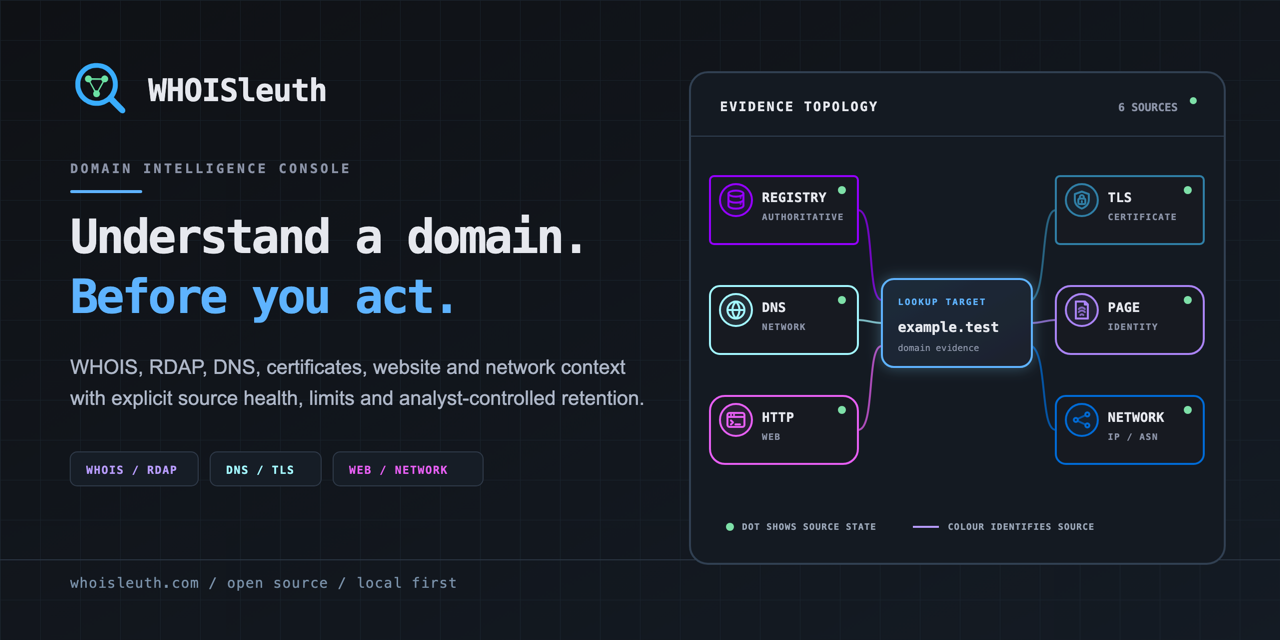
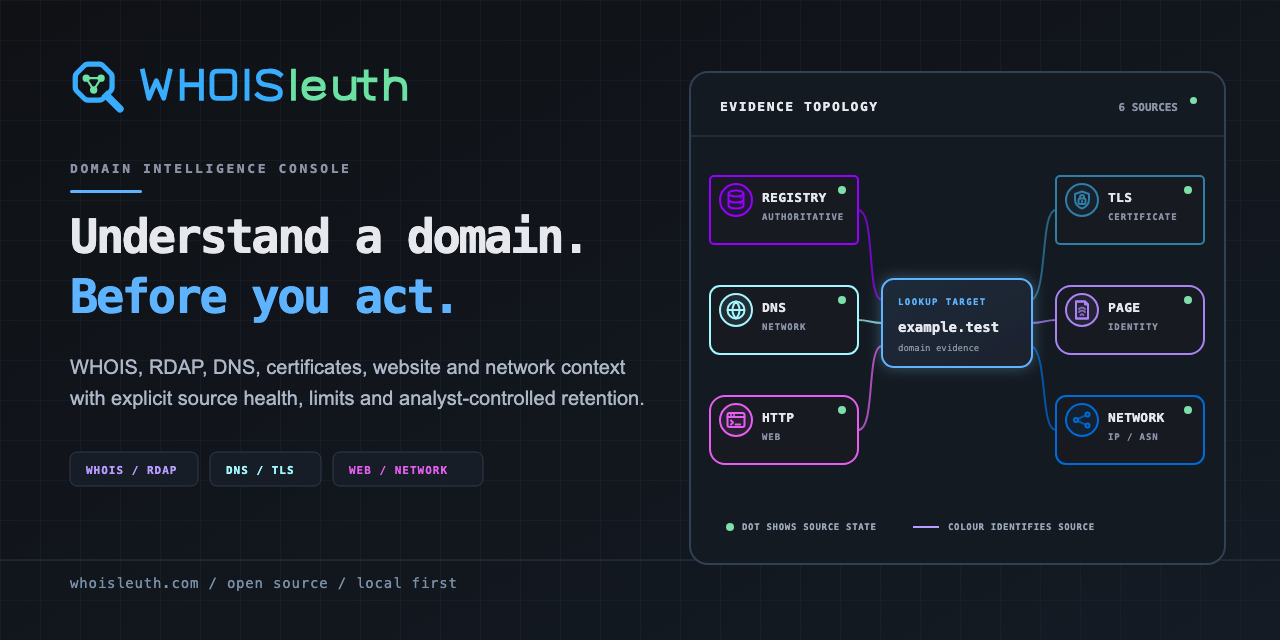
Unify vector identity across interface and shared assets
Define the symbol and outlined wordmark in one lightweight vector owner and derive the interface, light and dark logos, favicon sizes and social-preview assets from it. Keep the favicon and full identity on the same geometry without introducing a font or production dependency.

Preserve existing navigation labels, accessible names and theme effects while replacing duplicated identity markup. Retain a small asset generator and structural checks so future identity changes do not require separately redrawing each representation.

Verification: 14 focused identity and domain-feed tests passed with no failures, cancellations or skips. Both identity components compiled without warnings. Inspected the rendered mark at 16, 24, 32, 48 and 64 pixels in both themes and the social preview at its native size. Staged secret and whitespace checks passed; integrated page verification remains part of the batch boundary.

diff --git a/frontend/src/lib/components/BrandMark.svelte b/frontend/src/lib/components/BrandMark.svelte
@@ -1,35 +1,16 @@
-<svg
-  class="brand-mark"
-  viewBox="34 38 448 448"
-  aria-hidden="true"
-  focusable="false"
-  xmlns="http://www.w3.org/2000/svg"
->
-  <g>
-    <path
-      data-brand-tone="primary"
-      class="primary"
-      fill-rule="evenodd"
-      d="m228.75 74.15c5.64-.08 14.64.33 20 .92 5.36.58 14.02 1.98 19.25 3.11 5.23 1.12 13.32 3.4 18 5.05 4.68 1.65 12.55 5.02 17.5 7.49 4.95 2.47 12.82 7.03 17.5 10.12 5.25 3.47 13.48 10.6 21.53 18.64 8.94 8.94 15.09 16.15 19.65 23.02 3.64 5.5 8.4 13.6 10.58 18 2.18 4.4 5.35 11.82 7.05 16.5 1.69 4.68 3.96 12.1 5.04 16.5 1.09 4.4 2.55 11.37 3.26 15.5.73 4.3 1.27 15.39 1.26 26-.02 13.36-.5 20.86-1.73 27-.94 4.68-2.39 11.2-3.23 14.5-.84 3.3-2.92 9.82-4.61 14.5-1.69 4.68-5.1 12.55-7.58 17.5-2.47 4.95-6.22 11.7-8.33 15-2.11 3.3-3.84 6.45-3.85 7 0 .55 18.18 19.23 40.41 41.5 32.17 32.25 40.88 41.52 42.7 45.5 1.63 3.58 2.28 6.85 2.28 11.5 0 4.76-.6 7.64-2.22 10.75-1.26 2.42-4.01 5.43-6.39 7-3.27 2.15-5.63 2.82-10.75 3.08-5.7.29-7.36-.07-12.57-2.7-5.01-2.53-12.67-9.71-46.5-43.6-22.27-22.31-40.73-40.57-41-40.58-.27 0-3.87 2.22-8 4.95-4.12 2.72-12 7.18-17.5 9.92-5.5 2.73-13.37 6.18-17.5 7.66-4.12 1.49-12.23 3.82-18 5.19-8.22 1.95-14.29 2.61-28 3.05-11.17.36-20.58.13-26-.63-4.68-.65-12.78-2.26-18-3.59-5.22-1.32-12.65-3.59-16.5-5.03-3.85-1.45-11.05-4.67-16-7.17-4.95-2.5-12.37-6.8-16.5-9.57-4.12-2.76-10.65-7.62-14.5-10.79-3.85-3.17-9.73-8.61-13.07-12.1-3.35-3.49-7.9-8.59-10.12-11.34-2.23-2.75-6.4-8.6-9.27-13-2.87-4.4-7.17-12.05-9.56-17-2.38-4.95-5.67-12.82-7.3-17.5-1.63-4.68-4.02-13.45-5.32-19.5-2.08-9.67-2.36-13.66-2.36-33 0-19.35.28-23.32 2.36-33 1.3-6.05 3.94-15.5 5.86-21 1.92-5.5 5.42-13.82 7.77-18.5 2.35-4.68 7-12.55 10.34-17.5 3.34-4.95 8.9-12.25 12.37-16.23 3.46-3.98 9.68-10.2 13.8-13.84 4.13-3.63 10.2-8.52 13.5-10.86 3.3-2.34 9.15-6.08 13-8.33 3.85-2.24 11.95-6.08 18-8.52 6.05-2.45 14.82-5.37 19.5-6.5 4.68-1.14 11.88-2.55 16-3.14 4.13-.6 8.85-1.24 10.5-1.43 1.65-.19 7.61-.42 13.25-.5zm-37.75 41.82c-3.57 1.2-9.65 3.69-13.5 5.55-3.85 1.85-10.56 5.76-14.92 8.67-4.35 2.92-11.38 8.68-15.61 12.81-4.23 4.12-10.35 11.1-13.59 15.5-3.24 4.4-7.76 11.6-10.04 16-2.28 4.4-5.48 11.82-7.12 16.5-1.64 4.68-3.81 12.32-4.82 17-1.4 6.52-1.81 12.58-1.76 26 .07 16.37.28 18.28 3.26 29.5 1.76 6.6 5.33 16.5 7.96 22 2.62 5.5 7.04 13.37 9.82 17.5 2.78 4.12 8.16 10.82 11.94 14.89 3.78 4.06 9.58 9.51 12.88 12.1 3.3 2.6 9.15 6.69 13 9.1 3.85 2.41 11.05 6.11 16 8.23 4.95 2.12 13.72 5.04 19.5 6.48 9.16 2.28 12.61 2.62 27 2.65 10.34.01 18.74-.48 22.5-1.32 3.3-.75 10.05-2.71 15-4.36 4.95-1.65 11.7-4.35 15-6.01 3.3-1.65 9.71-5.42 14.25-8.38 4.54-2.96 11.92-8.87 16.41-13.13 4.49-4.26 10.68-11.13 13.76-15.25 3.08-4.13 7.71-11.55 10.28-16.5 2.57-4.95 5.42-11.02 6.33-13.5.91-2.48 2.53-7.43 3.6-11 1.06-3.57 2.59-11 3.38-16.5.8-5.5 1.46-13.38 1.47-17.5 0-4.13-.67-12-1.5-17.5-.83-5.5-2.46-13.38-3.62-17.5-1.16-4.13-3.77-11.32-5.79-16-2.02-4.68-5.85-11.88-8.51-16-2.66-4.13-7.44-10.65-10.63-14.5-3.18-3.85-8.4-9.25-11.59-12-3.19-2.75-8.73-6.96-12.32-9.36-3.59-2.41-9.89-6.06-14.02-8.14-4.12-2.07-11.1-4.9-15.5-6.29-4.4-1.39-11.82-3.25-16.5-4.13-5.57-1.05-13.51-1.57-23-1.51q-14.5.1-23.5 1.91c-4.95 1-11.93 2.79-15.5 3.99z"
-    />
-    <path class="primary soft-81" d="m71.36 233c0 5.22.17 7.25.38 4.5.2-2.75.2-7.03 0-9.5-.21-2.47-.38-.22-.38 5z" />
-    <path class="primary soft-32" d="m226.5 73.72c1.65.22 4.8.22 7 .01 2.2-.22.85-.4-3-.4-3.85-.01-5.65.17-4 .39zm178 302.28c7.15 7.16 13.23 13.01 13.5 13.01.27 0-5.22-5.85-12.22-13.01-7-7.15-13.07-13-13.5-13-.43-.01 5.07 5.84 12.22 13z" />
-    <path class="primary soft-22" d="m342 379.5c8.52 8.53 15.73 15.51 16 15.51.27 0-6.35-6.98-14.73-15.51-8.37-8.52-15.57-15.5-16-15.5-.42-.01 6.21 6.97 14.73 15.5z" />
-    <path class="primary soft-23" d="m384.5 422c12.1 12.1 22.23 22.01 22.5 22.01.27 0-9.28-9.91-21.23-22.01-11.96-12.1-22.08-22-22.5-22-.42 0 9.13 9.9 21.23 22z" />
-    <path
-      data-brand-tone="secondary"
-      class="secondary"
-      fill-rule="evenodd"
-      d="m169.5 166.97c4.58 0 7.29 0.65 11.45 2.76 3 1.53 6.71 4.34 8.26 6.27 1.54 1.93 3.44 5.3 5.6 11.5l70.69 0.6 3.21-6.3c1.85-3.64 4.81-7.56 7-9.27 2.08-1.63 5.36-3.53 7.29-4.21 1.93-0.68 5.75-1.24 8.5-1.26 2.75-0.01 6.8 0.52 9 1.19 2.36 0.71 6.11 3.26 9.16 6.23 4.15 4.03 5.5 6.2 6.86 11.02 1.17 4.14 1.48 7.4 0.99 10.5-0.39 2.47-1.51 6.07-2.48 8-0.97 1.93-3.29 5.02-5.15 6.88-1.86 1.86-4.73 4.08-6.38 4.93-1.66 0.85-6.56 1.73-19 2.38l-17 30.52c-9.35 16.79-17.63 31.71-18.39 33.16-1.27 2.41-1.17 2.93 1.19 6.13 1.43 1.93 3.3 5.52 4.17 8 0.86 2.48 1.57 6.07 1.56 8 0 1.93-0.68 5.52-1.5 8-0.82 2.48-2.99 6.3-4.83 8.5-1.83 2.2-5.33 5.01-7.77 6.24-3.16 1.59-6.22 2.24-10.68 2.25-3.44 0-7.94-0.69-10-1.55-2.06-0.86-5.3-2.77-7.2-4.25-1.92-1.5-4.56-5.12-5.97-8.19-1.84-4-2.52-7.14-2.49-11.5 0.03-4.71 0.66-7.15 2.97-11.36 1.62-2.94 3.5-5.76 4.19-6.25 0.93-0.66-3.49-9.48-35.75-67.89l-6.75 0.01c-5.41 0.01-7.83-0.54-12.18-2.75-2.99-1.52-6.7-4.33-8.25-6.26-1.55-1.93-3.5-5.53-4.33-8-0.83-2.47-1.52-6.3-1.52-8.5-0.01-2.2 0.71-6.03 1.58-8.5 0.88-2.47 2.84-6.07 4.36-8 1.52-1.93 5.2-4.74 8.18-6.26 4.12-2.11 6.84-2.76 11.41-2.77zm24.7 35.28c-0.62 1.79-2.71 5.16-4.66 7.5l-3.54 4.25 35.5 64.2 18.11 0.3c23.16-41.77 31.13-56.28 32.64-59.2l2.75-5.3c-4.58-5.81-6.61-9.19-7.45-11.25l-1.55-3.75h-70.68z"
-    />
-    <path class="secondary soft-54" d="m222 187.75c8.53.17 22.03.17 30 0 7.98-.17 1-.31-15.5-.31-16.5 0-23.03.14-14.5.31z" />
-    <path class="secondary soft-24" d="m207 198.71c6.88.16 23.15.4 36.16.54 13.01.14 23.47-.09 23.25-.5-.23-.41-16.5-.65-36.16-.53-19.66.12-30.13.34-23.25.49z" />
-  </g>
+<script lang="ts">
+  import { BRAND_MARK_VIEWBOX, BRAND_MARK_LENS, BRAND_MARK_LINKS, BRAND_MARK_NODES } from '$lib/brand-identity';
+</script>
+
+<svg class="brand-mark" viewBox={BRAND_MARK_VIEWBOX} aria-hidden="true" focusable="false" xmlns="http://www.w3.org/2000/svg">
+  <path data-brand-tone="primary" class="primary" d={BRAND_MARK_LENS} />
+  <path class="links" fill="none" stroke-width="2.4" stroke-linejoin="round" d={BRAND_MARK_LINKS} />
+  <path data-brand-tone="secondary" class="secondary" d={BRAND_MARK_NODES} />
 </svg>
 
 <style>
   .brand-mark{display:block;width:100%;height:100%;overflow:visible}
   .primary{fill:var(--brand-mark-primary)}
   .secondary{fill:var(--brand-mark-secondary)}
-  .soft-81{opacity:.81}.soft-54{opacity:.54}.soft-32{opacity:.32}.soft-24{opacity:.24}.soft-23{opacity:.23}.soft-22{opacity:.22}
+  .links{stroke:var(--brand-mark-secondary)}
 </style>

diff --git a/frontend/src/routes/(console)/+layout.svelte b/frontend/src/routes/(console)/+layout.svelte
@@ -12,6 +12,7 @@
   import { CAPABILITY_CONTEXT, fetchCapabilities, type CapabilityReport } from '$lib/capabilities';
   import { requestJsonCapped, SMALL_JSON_RESPONSE_BYTES } from '$lib/bounded-json-response';
   import BrandMark from '$lib/components/BrandMark.svelte';
+  import BrandWordmark from '$lib/components/BrandWordmark.svelte';
   import CommandPalette from '$lib/components/CommandPalette.svelte';
   import ConsoleLoading from '$lib/components/ConsoleLoading.svelte';
   import BrowserWorkspaceIndicator from '$lib/components/BrowserWorkspaceIndicator.svelte';
@@ -293,7 +294,7 @@
   <div class="shell" class:open={navOpen}>
     <a class="skip-link" href="#main-content">Skip to main content</a>
     <header bind:this={consoleHeader} inert={commandOpen} aria-hidden={commandOpen?'true':undefined}>
-      <a href="/dashboard" aria-label="WHOISleuth Dashboard"><span class="mark small"><BrandMark /></span><strong>WHOISleuth</strong></a>
+      <a href="/dashboard" aria-label="WHOISleuth Dashboard"><span class="mark small"><BrandMark /></span><strong><BrandWordmark /></strong></a>
       <div class="console-header-actions">
         <button class="command-trigger" type="button" aria-label="Search console navigation" bind:this={commandTrigger} onpointerenter={() => preloadBestEffort(() => import('$lib/console-command-navigation'))} onfocus={() => preloadBestEffort(() => import('$lib/console-command-navigation'))} onclick={()=>void openCommandPalette()}><span class="shortcut-wide" aria-hidden="true">Ctrl/⌘ K</span><span class="command-icon" aria-hidden="true"><IntelligenceIcon name="command" size={18} /></span><strong>Search</strong></button>
         <span class="sign-out-control">
@@ -306,7 +307,7 @@
     <aside id="console-navigation" bind:this={navigationPanel} inert={commandOpen} aria-hidden={commandOpen?'true':undefined}>
       <div class="terminal-strip" aria-hidden="true"><span class="prompt-sigil">❯</span><span>guest@whoisleuth / console</span></div>
       <button class="navigation-drawer-close" type="button" aria-label="Close navigation" onclick={()=>void closeNavigation()}>×</button>
-      <a class="brand" href="/dashboard"><span class="mark"><BrandMark /></span><span><strong>WHOISleuth</strong><small>Domain intelligence console</small></span></a>
+      <a class="brand" href="/dashboard"><span class="mark"><BrandMark /></span><span><strong><BrandWordmark /></strong><small>Domain intelligence console</small></span></a>
       <nav aria-label="Console">
         {#each consoleNavigationGroups as navigationGroup}
           <div class="console-nav-group" role="group" aria-labelledby={`console-group-${navigationGroup.label.toLowerCase().replaceAll(' ', '-').replace('&', 'and')}`}>

diff --git a/frontend/src/lib/brand-identity.ts b/frontend/src/lib/brand-identity.ts
@@ -1,0 +1,22 @@
+/** Shared vector geometry for the interface and downloadable identity assets. */
+export const BRAND_MARK_VIEWBOX = '0 0 64 64';
+export const BRAND_MARK_LENS = 'M42 37L60 55Q63 58 60 61Q57 64 54 61L36 43ZM20 4H34Q37 4 39 6L49 16Q51 18 51 21V34Q51 37 49 39L39 49Q37 51 34 51H20Q17 51 15 49L5 39Q3 37 3 34V21Q3 18 5 16L15 6Q17 4 20 4ZM21 10Q19 10 18 11L10 19Q9 20 9 22V33Q9 35 10 36L18 44Q19 45 21 45H33Q35 45 36 44L44 36Q45 35 45 33V22Q45 20 44 19L36 11Q35 10 33 10Z';
+export const BRAND_MARK_LINKS = 'M18.5 23H35.5L27 36.5Z';
+export const BRAND_MARK_NODES = 'M22.7 23a4.2 4.2 0 1 1-8.4 0 4.2 4.2 0 1 1 8.4 0ZM39.7 23a4.2 4.2 0 1 1-8.4 0 4.2 4.2 0 1 1 8.4 0ZM31.2 36.5a4.2 4.2 0 1 1-8.4 0 4.2 4.2 0 1 1 8.4 0Z';
+
+// Drawn letterforms keep the wordmark independent of installed fonts.
+export const BRAND_WORDMARK_VIEWBOX = '-3 0 308 42';
+export const BRAND_WORDMARK_PRIMARY = 'M1 5L8 36L16.5 16L25 36L32 5M46 5V36M46 20.5H68M68 5V36M86 5H100Q106 5 106 11V30Q106 36 100 36H86Q80 36 80 30V11Q80 5 86 5ZM120 5V36M158 9Q152 4 144 5Q133 5 133 13Q133 20 144 21L149 22Q159 24 158 30Q158 37 146 37Q137 37 132 32';
+export const BRAND_WORDMARK_SECONDARY = 'M173 5V36M185 25H207V23Q207 14 196 14Q185 14 185 25Q185 36 196 36Q203 36 207 32M221 14V27Q221 36 231 36Q242 36 242 26M242 14V36M256 6V29Q256 36 264 36M248 15H266M279 5V36M279 24Q279 14 289 14Q300 14 300 24V36';
+
+export const BRAND_PALETTE = Object.freeze({ primary: '#39adfd', secondary: '#6be1a3', lightPrimary: '#005b91', lightSecondary: '#006b49' });
+
+export function brandMarkSvg(): string {
+  return `<svg xmlns="http://www.w3.org/2000/svg" viewBox="${BRAND_MARK_VIEWBOX}"><title>WHOISleuth</title><path fill="${BRAND_PALETTE.primary}" d="${BRAND_MARK_LENS}"/><path fill="none" stroke="${BRAND_PALETTE.secondary}" stroke-width="2.4" stroke-linejoin="round" d="${BRAND_MARK_LINKS}"/><path fill="${BRAND_PALETTE.secondary}" d="${BRAND_MARK_NODES}"/></svg>\n`;
+}
+
+export function brandLogoSvg(light = false): string {
+  const primary = light ? BRAND_PALETTE.lightPrimary : BRAND_PALETTE.primary;
+  const secondary = light ? BRAND_PALETTE.lightSecondary : BRAND_PALETTE.secondary;
+  return `<svg xmlns="http://www.w3.org/2000/svg" viewBox="0 0 388 64"><title>WHOISleuth</title><path fill="${primary}" d="${BRAND_MARK_LENS}"/><path fill="none" stroke="${secondary}" stroke-width="2.4" stroke-linejoin="round" d="${BRAND_MARK_LINKS}"/><path fill="${secondary}" d="${BRAND_MARK_NODES}"/><g transform="translate(82 10)" fill="none" stroke-width="5.5" stroke-linecap="square" stroke-linejoin="round"><path stroke="${primary}" d="${BRAND_WORDMARK_PRIMARY}"/><path stroke="${secondary}" d="${BRAND_WORDMARK_SECONDARY}"/></g></svg>\n`;
+}

diff --git a/frontend/src/routes/(public)/+layout.svelte b/frontend/src/routes/(public)/+layout.svelte
@@ -3,6 +3,7 @@
   import { page } from '$app/state';
   import { onMount, setContext } from 'svelte';
   import BrandMark from '$lib/components/BrandMark.svelte';
+  import BrandWordmark from '$lib/components/BrandWordmark.svelte';
   import SiteFooter from '$lib/components/SiteFooter.svelte';
   import ThemeSelector from '$lib/components/ThemeSelector.svelte';
   import {
@@ -82,7 +83,7 @@
 <div class="public-shell" class:documentation-shell={referenceSectionActive}>
   <a class="skip-link" href="#main-content">Skip to main content</a>
   <header class="public-header">
-    <a class="public-brand" href="/" aria-label="WHOISleuth overview"><span class="mark"><BrandMark /></span><span class="brand-copy"><strong>WHOISleuth</strong><small>Domain intelligence</small></span></a>
+    <a class="public-brand" href="/" aria-label="WHOISleuth overview"><span class="mark"><BrandMark /></span><span class="brand-copy"><strong><BrandWordmark /></strong><small>Domain intelligence</small></span></a>
     <nav class="public-navigation-desktop" aria-label="Public navigation">
       {#each publicHeaderNavigation as item}
         <a data-public-route={item.href} class:active={publicItemActive(item.href)} aria-current={publicItemCurrent(item.href)} href={item.href}>{item.label}</a>

diff --git a/frontend/src/app.html b/frontend/src/app.html
@@ -1,1 +1,1 @@
-<!doctype html><html lang="en"><head><meta charset="utf-8"><meta name="viewport" content="width=device-width,initial-scale=1"><meta name="theme-color" content="#0f1115">%sveltekit.head%<script src="/theme-init.js"></script><link rel="icon" href="/favicon.ico" sizes="64x64"><link rel="icon" type="image/svg+xml" href="/favicon.svg"></head><body data-sveltekit-preload-data="hover"><div style="display:contents">%sveltekit.body%</div></body></html>
+<!doctype html><html lang="en"><head><meta charset="utf-8"><meta name="viewport" content="width=device-width,initial-scale=1"><meta name="theme-color" content="#0f1115">%sveltekit.head%<script src="/theme-init.js"></script><link rel="icon" href="/favicon.ico" sizes="16x16 32x32 48x48 64x64"><link rel="icon" type="image/svg+xml" href="/favicon.svg"></head><body data-sveltekit-preload-data="hover"><div style="display:contents">%sveltekit.body%</div></body></html>

diff --git a/frontend/src/lib/components/BrandWordmark.svelte b/frontend/src/lib/components/BrandWordmark.svelte
@@ -1,0 +1,12 @@
+<script lang="ts">
+  import { BRAND_WORDMARK_VIEWBOX, BRAND_WORDMARK_PRIMARY, BRAND_WORDMARK_SECONDARY } from '$lib/brand-identity';
+</script>
+
+<span class="wordmark"><span class="sr-only">WHOISleuth</span><svg viewBox={BRAND_WORDMARK_VIEWBOX} aria-hidden="true" focusable="false" fill="none" stroke-width="5.5" stroke-linecap="square" stroke-linejoin="round"><path class="primary" d={BRAND_WORDMARK_PRIMARY}/><path class="secondary" d={BRAND_WORDMARK_SECONDARY}/></svg></span>
+
+<style>
+  .wordmark{display:inline-block;width:6.35em;max-width:100%;line-height:1;vertical-align:middle}
+  svg{display:block;width:100%;height:auto;overflow:visible}
+  .primary{stroke:var(--brand-mark-primary)}
+  .secondary{stroke:var(--brand-mark-secondary)}
+</style>

diff --git a/frontend/src/lib/components/RouteErrorPage.svelte b/frontend/src/lib/components/RouteErrorPage.svelte
@@ -1,5 +1,6 @@
 <script lang="ts">
   import BrandMark from './BrandMark.svelte';
+  import BrandWordmark from './BrandWordmark.svelte';
   import SiteFooter from './SiteFooter.svelte';
 
   let { status = 404 }: { status?: number } = $props();
@@ -12,7 +13,7 @@
 </svelte:head>
 
 <div class="error-shell">
-  <header><a class="brand" href="/" data-sveltekit-reload><span class="mark"><BrandMark /></span><strong>WHOISleuth</strong></a></header>
+  <header><a class="brand" href="/" data-sveltekit-reload><span class="mark"><BrandMark /></span><strong><BrandWordmark /></strong></a></header>
   <main id="main-content">
     <p class="status">{status}</p>
     <h1>{missing ? 'Page not found' : 'Page unavailable'}</h1>
